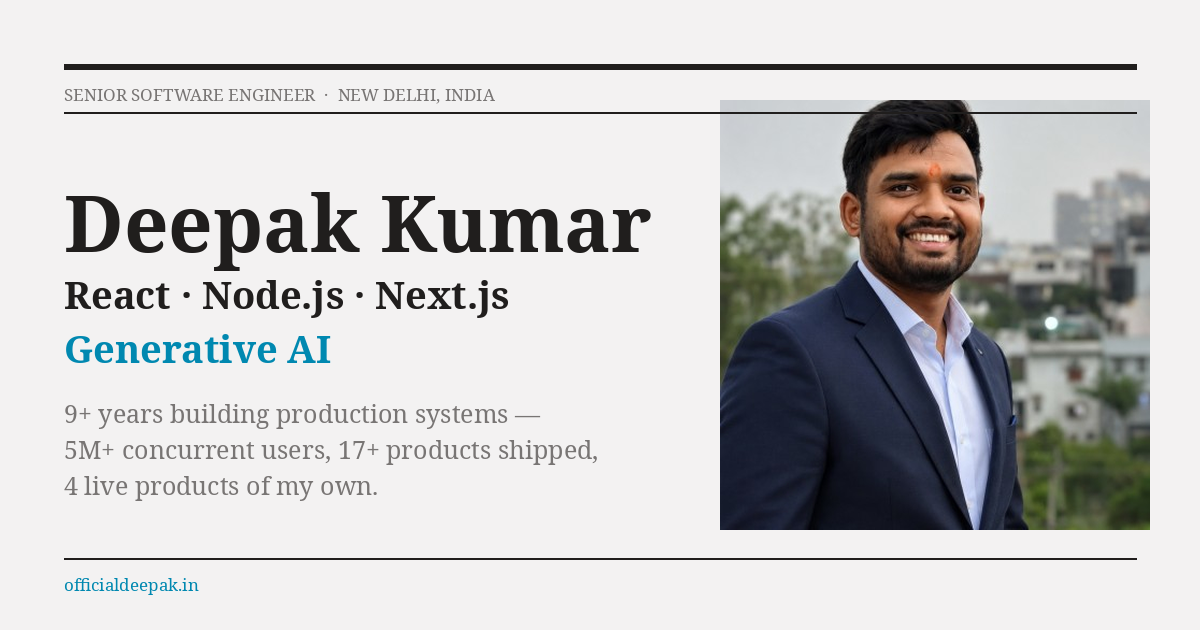
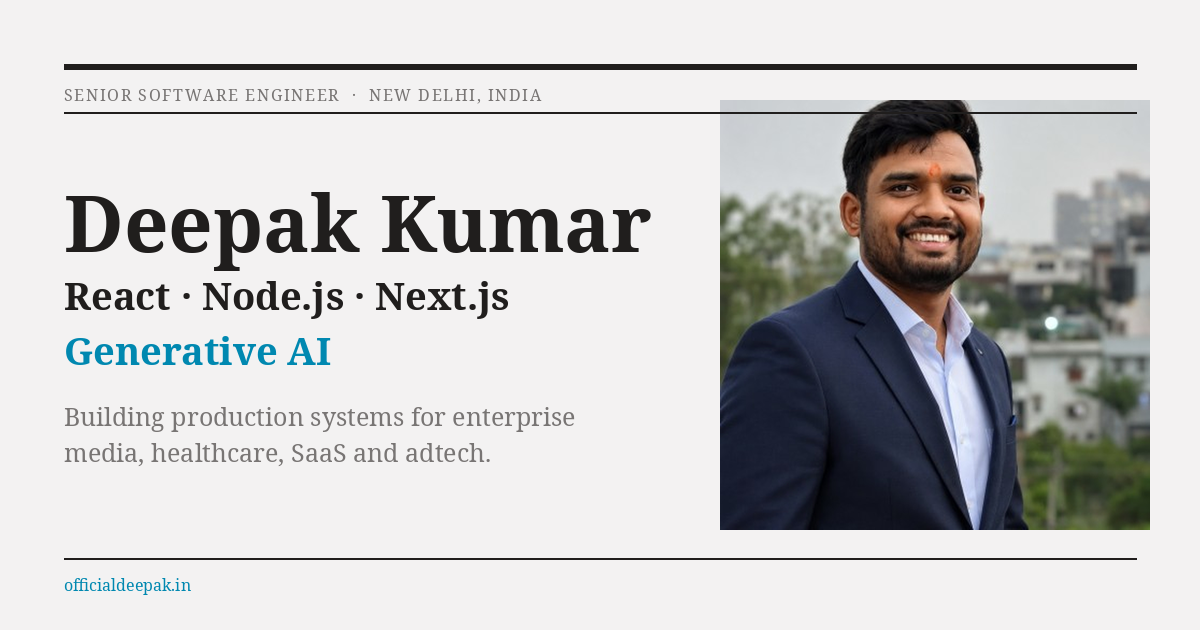
working

diff --git a/components/utils/portfolio-data.ts b/components/utils/portfolio-data.ts
@@ -273,7 +273,7 @@ export const EXPERIENCES: ExperienceItem[] = [
   },
   {
     company: "Own Products",
-    logo: "/assets/images/profile-pic-removebg-preview.png",
+    logo: "/assets/images/deepak-kumar-react-developer-india.jpg",
     logoAlt: "Deepak Kumar - Freelance",
     url: "https://officialdeepak.in",
     role: "Full Stack Developer & Product Owner",
@@ -286,7 +286,7 @@ export const EXPERIENCES: ExperienceItem[] = [
     highlights: [],
     projects: [
       { title: "VTechXHub", type: "Own Product · Live", overview: "Content publishing platform for guest posts, quality articles, and SEO-driven distribution. Owning this product end-to-end — built contributor workflows, SEO optimization, and content management.", technologies: ["React.js", "Node.js", "MySQL", "NEXT JS", "NEST JS"], website: "https://vtechxhub.com/" },
-      { title: "Think4BuySale", type: "Own Product · Under Development", overview: "Real estate platform with property listing, advanced search, filtering, and management dashboards for buyers and sellers.", technologies: ["React.js", "Nest.js", "MySQL", "Next.js", "REST APIs"], website: "https://reales-think4buysale.vercel.app/" },
+      { title: "Think4BuySale", type: "Own Product · Live", overview: "Real estate platform with property listing, advanced search, filtering, and management dashboards for buyers and sellers.", technologies: ["React.js", "Nest.js", "MySQL", "Next.js", "REST APIs"], website: "https://www.think4buysale.in/" },
     ],
   },
 ];
@@ -1030,10 +1030,10 @@ export const FEATURED_PROJECTS: FeaturedProject[] = [
     client: "Own Product",
     role: "Founder & Lead Engineer",
     year: "2023",
-    status: "In Development",
+    status: "Live",
     flagship: true,
     website: "https://www.think4buysale.in/",
-    overview: "Real estate platform with property listing, advanced search, and management for buyers and sellers. Dev version: reales-think4buysale.vercel.app",
+    overview: "Real estate platform with property listing, advanced search, and management for buyers and sellers.",
     impact: ["Improved property discovery UX", "Scalable listing architecture", "Advanced filtering system"],
     technologies: ["React.js", "Node.js", "MongoDB", "Next.js", "REST APIs"],
   },

diff --git a/app/blog/[slug]/page.tsx b/app/blog/[slug]/page.tsx
@@ -142,7 +142,7 @@ export async function generateMetadata({ params }: { params: { slug: string } })
   const description = post.seoDescription || post.description;
   const kwSet = new Set([post.focusKeyword, ...post.seoKeywords, ...post.tags, ...defaultKws, PERSONAL_INFO.fullName, "blog", "tutorial"].filter(Boolean));
   const keywords = Array.from(kwSet);
-  const ogImage     = post.ogImage || defaults?.ogImage || `${SITE_URL}/assets/images/profile-pic-removebg-preview.png`;
+  const ogImage     = post.ogImage || defaults?.ogImage || `${SITE_URL}/assets/images/og-default.png`;
   const canonical   = post.canonicalUrl || `${SITE_URL}/blog/${post.slug}`;
   const robots      = post.noIndex ? "noindex, nofollow" : (post.robots || "index, follow");
   const [ri, rf]    = robots.split(",").map((s: string) => s.trim());
@@ -205,7 +205,7 @@ export default async function BlogPostPage({ params }: { params: { slug: string 
   const related = await getRelated(post.slug, post.tags, (post as any).related ?? []);
 
   const postUrl   = `${SITE_URL}/blog/${post.slug}`;
-  const ogImage   = post.ogImage || defaults?.ogImage || `${SITE_URL}/assets/images/profile-pic-removebg-preview.png`;
+  const ogImage   = post.ogImage || defaults?.ogImage || `${SITE_URL}/assets/images/og-default.png`;
   const wordCount = countWords(post.content);
   const readMins  = parseInt(post.readTime) || Math.max(1, Math.round(wordCount / 225));
   const faq: { question: string; answer: string }[] = (post as any).faq ?? [];

diff --git a/next-seo.config.ts b/next-seo.config.ts
@@ -1,23 +1,13 @@
 import { totalExperianceYears } from "./components/utils/date";
 import { PERSONAL_INFO } from "./components/utils/portfolio-data";
-import crypto from "crypto";
 
 const GLOBAL_EMAIL = PERSONAL_INFO.email || process.env.NEXT_PUBLIC_EMAIL_ID || "";
 const description = `Experienced React/JavaScript Developer with ${totalExperianceYears()} of expertise. ${PERSONAL_INFO.fullName} excels in developing high-quality web applications using modern frameworks like React, Node.js, and Next.js for seamless software development.`;
 const title = `${PERSONAL_INFO.fullName} | Expert React & JavaScript Developer`;
 
-function getGravatarUrl(email: string, size = 120): string {
-  if (email) {
-    const emailHash = crypto
-      .createHash("md5")
-      .update(email.trim().toLowerCase())
-      .digest("hex");
-    return `https://www.gravatar.com/avatar/${emailHash}?s=${size}&d=identicon`;
-  }
-  return "";
-}
-
-const profileImage = getGravatarUrl(GLOBAL_EMAIL);
+const SITE_URL = (process.env.NEXT_PUBLIC_WEB_SITE || "https://officialdeepak.in").replace(/\/+$/, "");
+// Share cards use the current og-default card — never a gravatar or an old portrait.
+const profileImage = `${SITE_URL}/assets/images/og-default.png`;
 
 export const NEXT_SEO_DEFAULT = {
   title,

diff --git a/app/seo_config.ts b/app/seo_config.ts
@@ -24,7 +24,11 @@ function getGravatarUrl(email: string, size = 120): string {
 
 const profileImage = `${SITE_URL}/assets/images/og-default.png`;
 // Kept for the Person schema, which wants a portrait rather than a share card.
+// This is the image Google's Knowledge Panel reads, and it gets cropped square,
+// so it carries no text -- unlike the OG card above.
 const portraitImage = `${SITE_URL}/assets/images/deepak-kumar-react-developer-india.jpg`;
+// Must match the file on disk; both are produced by scripts/generate-og.py.
+const PORTRAIT_SIZE = 800;
 const gravatarFallback = getGravatarUrl(GLOBAL_EMAIL);
 
 export const NEXT_SEO_DEFAULT: Metadata = {
@@ -278,8 +282,8 @@ const personSchema = {
     "@type": "ImageObject",
     url: portraitImage,
     contentUrl: portraitImage,
-    width: 400,
-    height: 400,
+    width: PORTRAIT_SIZE,
+    height: PORTRAIT_SIZE,
     caption: "Deepak Kumar — senior React and full stack developer in New Delhi, India",
     name: "Deepak Kumar, Senior Software Engineer",
   },

diff --git a/app/projects/page.tsx b/app/projects/page.tsx
@@ -52,10 +52,10 @@ export default function ProjectsPage() {
 
       <PageHeader
         crumbs={[{ label: "Home", href: "/" }, { label: "Projects" }]}
-        dateline={["Portfolio", "17+ products shipped", "2 live products I own"]}
+        dateline={["Portfolio", "17+ products shipped", "4 live products I own"]}
         kicker="Projects & products"
         title="Everything I have shipped, and what it did."
-        lede="Two products I own end to end, then the client and employer work — news media, healthcare, adtech, real estate and real-time communication. Numbers attached where numbers exist."
+        lede="Four products I own end to end, then the client and employer work — news media, healthcare, adtech, real estate and real-time communication. Numbers attached where numbers exist."
       />
 
       <Products heading={false} />

diff --git a/app/blog/page.tsx b/app/blog/page.tsx
@@ -76,7 +76,7 @@ export async function generateMetadata(
        "full stack developer blog", "software engineer blog India"];
   const ogTitle       = cfg?.ogTitle       || `Engineering Blog | ${PERSONAL_INFO.fullName}`;
   const ogDescription = cfg?.ogDescription || description;
-  const ogImage       = cfg?.ogImage       || `${SITE_URL}/assets/images/profile-pic-removebg-preview.png`;
+  const ogImage       = cfg?.ogImage       || `${SITE_URL}/assets/images/og-default.png`;
   const robots        = cfg?.robots        || "index, follow";
   const canonical     = cfg?.canonicalUrl  || `${SITE_URL}/blog`;
 

diff --git a/scripts/generate-og.py b/scripts/generate-og.py
@@ -1,0 +1,256 @@
+#!/usr/bin/env python3
+"""
+Regenerates the social share card and the Person-schema portrait from one source
+photo, so a copy change is an edit to the CONTENT block below plus a re-run
+rather than a redesign in an image editor.
+
+    python3 scripts/generate-og.py
+
+Outputs
+    public/assets/images/og-default.png                          1200x630 share card
+    public/assets/images/deepak-kumar-react-developer-india.jpg  square portrait
+
+The two images are deliberately different shapes because they feed different
+consumers. og-default.png goes to OpenGraph/Twitter (app/seo_config.ts) and is
+rendered as a wide card by LinkedIn, Slack and WhatsApp. The portrait goes to
+Person.image in the schema.org block, which is what Google's Knowledge Panel
+reads, and that gets cropped square -- so it carries no text at all.
+
+Deliberately number-free: any figure baked into a static PNG (years of
+experience, users served, products shipped) goes stale without warning, and
+share cards are cached for months by the platforms above.
+
+Text blocks are positioned by flowing real glyph metrics (see stack_block), not
+by fixed y-offsets. Fixed offsets collided the descender of "Deepak" with the
+line below it, and would break again on any copy or font change.
+
+Requires Pillow. Fonts resolve from the system; see FONT_CANDIDATES.
+"""
+
+import os
+import sys
+
+from PIL import Image, ImageDraw, ImageFont
+
+# ── CONTENT ───────────────────────────────────────────────────────────────────
+# Edit these, re-run, commit the PNGs. Keep it free of numbers and of anything
+# tied to "now" -- see the module docstring.
+
+EYEBROW = "SENIOR SOFTWARE ENGINEER  ·  NEW DELHI, INDIA"
+NAME = "Deepak Kumar"
+STACK = "React · Node.js · Next.js"
+ACCENT_LINE = "Generative AI"
+TAGLINE = "Building production systems for enterprise media, healthcare, SaaS and adtech."
+URL = "officialdeepak.in"
+
+# ── PATHS ─────────────────────────────────────────────────────────────────────
+
+ROOT = os.path.dirname(os.path.dirname(os.path.abspath(__file__)))
+IMAGES = os.path.join(ROOT, "public", "assets", "images")
+
+SOURCE = os.path.join(IMAGES, "profile.png")
+OUT_CARD = os.path.join(IMAGES, "og-default.png")
+OUT_PORTRAIT = os.path.join(IMAGES, "deepak-kumar-react-developer-india.jpg")
+
+# Google wants structured-data images at 1200px+ on the longest side. The
+# portrait is capped by the source rather than upscaled, since interpolating
+# adds no detail the crawler can use -- swap in a larger SOURCE to lift it.
+# Keep PORTRAIT_SIZE in app/seo_config.ts in step with what this prints.
+PORTRAIT_TARGET = 1200
+
+# ── DESIGN TOKENS ─────────────────────────────────────────────────────────────
+# Measured off the original card so a regenerate stays on-brand.
+
+W, H = 1200, 630
+
+BG = (243, 242, 242)
+INK = (32, 30, 29)
+MUTED = (120, 117, 116)
+ACCENT = (0, 136, 176)
+
+MARGIN = 64
+RULE_RIGHT = 1136          # rules stop short of the bleed edge, mirroring MARGIN
+TEXT_RIGHT = 660           # left column wraps before the photo
+
+RULE_TOP_Y, RULE_TOP_H = 64, 6
+RULE_THIN_Y, RULE_THIN_H = 112, 2
+RULE_BOTTOM_Y, RULE_BOTTOM_H = 558, 2
+
+# Ink-top positions: where the first painted pixel of a block lands, which is
+# what the eye aligns to. Blocks below NAME flow from the one above by gap.
+EYEBROW_INK_TOP = 89
+NAME_INK_TOP = 192
+GAP_NAME_STACK = 10
+GAP_STACK_ACCENT = 17
+GAP_ACCENT_TAGLINE = 42
+TAGLINE_LEADING = 36
+URL_INK_TOP = 578
+
+PHOTO_BOX = (720, 100, 1149, 529)   # left, top, right, bottom (inclusive)
+
+EYEBROW_TRACKING = 1.6     # extra px between characters, small-caps feel
+
+# Sizes chosen so ink heights match the original card exactly:
+# name 79px, stack 38px, accent 29px, tagline 25px, eyebrow 15px, url 17px.
+SIZE_EYEBROW = 16
+SIZE_NAME = 78
+SIZE_STACK = 38
+SIZE_ACCENT = 38
+SIZE_TAGLINE = 25
+SIZE_URL = 16
+
+FONT_CANDIDATES = {
+    "bold": [
+        "/usr/share/fonts/truetype/noto/NotoSerif-Bold.ttf",
+        "/usr/share/fonts/truetype/dejavu/DejaVuSerif-Bold.ttf",
+    ],
+    "regular": [
+        "/usr/share/fonts/truetype/noto/NotoSerif-Regular.ttf",
+        "/usr/share/fonts/truetype/dejavu/DejaVuSerif.ttf",
+    ],
+}
+
+warnings = []
+
+
+def load_font(weight, size):
+    for path in FONT_CANDIDATES[weight]:
+        if os.path.exists(path):
+            return ImageFont.truetype(path, size)
+    raise SystemExit(
+        f"No {weight} serif font found. Install fonts-noto-core or edit FONT_CANDIDATES."
+    )
+
+
+def stack_block(draw, ink_top, text, font, fill, tracking=0.0):
+    """
+    Paint one line so its topmost ink lands on ink_top, and report the row its
+    lowest ink occupies. Callers chain these with an explicit gap, which is what
+    keeps a descender off the line beneath it whatever the copy says.
+    """
+    bbox = draw.textbbox((0, 0), text, font=font)
+    y = ink_top - bbox[1]
+
+    if tracking:
+        x = MARGIN
+        for ch in text:
+            draw.text((x, y), ch, font=font, fill=fill)
+            x += draw.textlength(ch, font=font) + tracking
+        width = x - MARGIN - tracking
+    else:
+        draw.text((MARGIN, y), text, font=font, fill=fill)
+        width = bbox[2] - bbox[0]
+
+    if MARGIN + width > TEXT_RIGHT:
+        warnings.append(
+            f'"{text[:34]}..." is {round(MARGIN + width - TEXT_RIGHT)}px wider than '
+            f"the text column and will run under the photo."
+        )
+
+    return ink_top + (bbox[3] - bbox[1])
+
+
+def wrap(draw, text, font, max_width):
+    lines, current = [], ""
+    for word in text.split():
+        trial = f"{current} {word}".strip()
+        if draw.textlength(trial, font=font) <= max_width or not current:
+            current = trial
+        else:
+            lines.append(current)
+            current = word
+    if current:
+        lines.append(current)
+    return lines
+
+
+def cover_crop(img, width, height):
+    """Scale to fill then crop, anchored top-centre so the face is never cut."""
+    scale = max(width / img.width, height / img.height)
+    resized = img.resize(
+        (max(1, round(img.width * scale)), max(1, round(img.height * scale))),
+        Image.LANCZOS,
+    )
+    left = (resized.width - width) // 2
+    return resized.crop((left, 0, left + width, height))
+
+
+def build_card(source):
+    card = Image.new("RGB", (W, H), BG)
+    draw = ImageDraw.Draw(card)
+
+    f_eyebrow = load_font("regular", SIZE_EYEBROW)
+    f_name = load_font("bold", SIZE_NAME)
+    f_stack = load_font("bold", SIZE_STACK)
+    f_accent = load_font("bold", SIZE_ACCENT)
+    f_tagline = load_font("regular", SIZE_TAGLINE)
+    f_url = load_font("regular", SIZE_URL)
+
+    draw.rectangle(
+        [MARGIN, RULE_TOP_Y, RULE_RIGHT, RULE_TOP_Y + RULE_TOP_H - 1], fill=INK
+    )
+    stack_block(draw, EYEBROW_INK_TOP, EYEBROW, f_eyebrow, MUTED, EYEBROW_TRACKING)
+
+    # Photo goes down before the thin rule, which crosses over its top edge.
+    left, top, right, bottom = PHOTO_BOX
+    card.paste(cover_crop(source, right - left + 1, bottom - top + 1), (left, top))
+    draw.rectangle(
+        [MARGIN, RULE_THIN_Y, RULE_RIGHT, RULE_THIN_Y + RULE_THIN_H - 1], fill=INK
+    )
+
+    bottom_ink = stack_block(draw, NAME_INK_TOP, NAME, f_name, INK)
+    bottom_ink = stack_block(draw, bottom_ink + GAP_NAME_STACK, STACK, f_stack, INK)
+    bottom_ink = stack_block(
+        draw, bottom_ink + GAP_STACK_ACCENT, ACCENT_LINE, f_accent, ACCENT
+    )
+
+    ink_top = bottom_ink + GAP_ACCENT_TAGLINE
+    for i, line in enumerate(wrap(draw, TAGLINE, f_tagline, TEXT_RIGHT - MARGIN)):
+        bottom_ink = stack_block(
+            draw, ink_top + i * TAGLINE_LEADING, line, f_tagline, MUTED
+        )
+    if bottom_ink >= RULE_BOTTOM_Y - 12:
+        warnings.append(
+            f"TAGLINE runs to y={bottom_ink}, colliding with the footer rule at "
+            f"y={RULE_BOTTOM_Y}. Shorten it."
+        )
+
+    draw.rectangle(
+        [MARGIN, RULE_BOTTOM_Y, RULE_RIGHT, RULE_BOTTOM_Y + RULE_BOTTOM_H - 1], fill=INK
+    )
+    stack_block(draw, URL_INK_TOP, URL, f_url, ACCENT)
+
+    return card
+
+
+def build_portrait(source):
+    size = min(PORTRAIT_TARGET, min(source.width, source.height))
+    return cover_crop(source, size, size), size
+
+
+def main():
+    if not os.path.exists(SOURCE):
+        raise SystemExit(f"Source photo not found: {SOURCE}")
+
+    source = Image.open(SOURCE).convert("RGB")
+
+    build_card(source).save(OUT_CARD, "PNG", optimize=True)
+    print(f"  ✓ {os.path.relpath(OUT_CARD, ROOT)}  {W}x{H}")
+
+    portrait, size = build_portrait(source)
+    portrait.save(OUT_PORTRAIT, "JPEG", quality=88, optimize=True, progressive=True)
+    print(f"  ✓ {os.path.relpath(OUT_PORTRAIT, ROOT)}  {size}x{size}")
+
+    if size < PORTRAIT_TARGET:
+        warnings.append(
+            f"Portrait is {size}px; Google prefers {PORTRAIT_TARGET}px+ for "
+            f"Person.image. Source is only {source.width}x{source.height} -- replace "
+            f"{os.path.relpath(SOURCE, ROOT)} with a larger original and re-run."
+        )
+
+    for w in warnings:
+        print(f"\n  ! {w}", file=sys.stderr)
+
+
+if __name__ == "__main__":
+    main()
